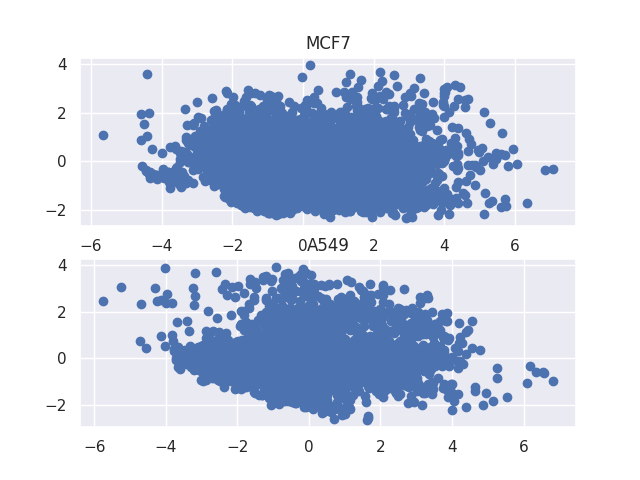
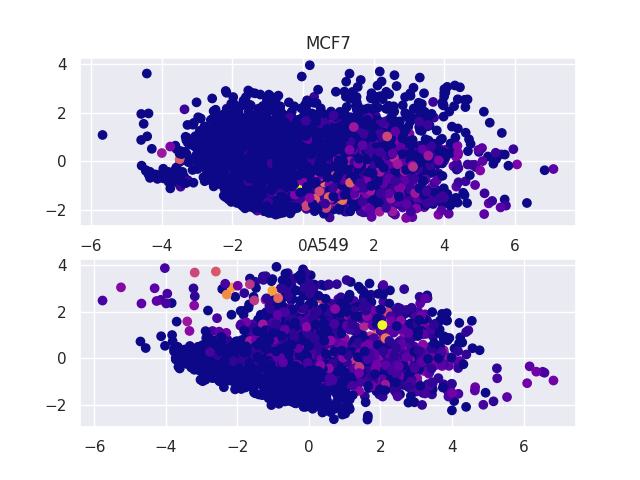
add colors to pca for number of dropouts. add script for creating rank files. add method for getting a block of data

diff --git a/processing/most_common_manager.py b/processing/most_common_manager.py
@@ -6,26 +6,6 @@ import pandas as pd
 import os
 import ipdb
 
-PERTS_PER_CELLTYPE_FILE = 'processing/helper_data/perts_per_celltype.csv'
-CELLTYPES_PER_PERT_FILE = 'processing/helper_data/celltypes_per_pert.csv'
-
-
-def save_most_common_lists():
-    print(f'[save_most_common_list] loading original LINCS2 data')
-    data_df = load_cmap()
-
-    print(f'[save_most_common_list] sorting most common celltypes/perturbations')
-    inst_info = load_inst_info()
-    inst_info = inst_info.filter(set(data_df.columns), axis=0)
-    inst_info = inst_info[inst_info['pert_type'] == 'trt_cp']
-    perts_per_celltype = inst_info.groupby('cell_id')[PERT_ID_FIELD].nunique().sort_values(ascending=False)
-    celltypes_per_pert = inst_info.groupby(PERT_ID_FIELD)['cell_id'].nunique().sort_values(ascending=False)
-
-    print(f'[save_most_common_list] saving sorted lists into files')
-    os.makedirs('processing/helper_data', exist_ok=True)
-    perts_per_celltype.to_csv(PERTS_PER_CELLTYPE_FILE)
-    celltypes_per_pert.to_csv(CELLTYPES_PER_PERT_FILE)
-
 
 class MostCommonManager:
     def __init__(self, num_celltypes, num_perts):
@@ -34,8 +14,6 @@ class MostCommonManager:
         """
         self.nc = num_celltypes
         self.np = num_perts
-        if not os.path.exists(PERTS_PER_CELLTYPE_FILE):
-            save_most_common_lists()
 
     def get_most_common_gctx(self, overwrite=False):
         filename = os.path.join('processing', 'helper_data', 'most_common', f'{self.nc}celltypes_{self.np}perts.gctx')

diff --git a/visuals/check_pca.py b/visuals/check_pca.py
@@ -1,11 +1,13 @@
 from cmapPy.pandasGEXpress.parse import parse
 import os
-from filenames import _format_cmap
+from filenames import _format_cmap, load_num_dropouts
 from sklearn.decomposition import PCA
 import matplotlib.pyplot as plt
 import seaborn as sns
 import numpy as np
 from utils import pandas_minmax
+import ipdb
+cm = plt.get_cmap('plasma')
 sns.set()
 
 cell_ids = ['MCF7', 'A549']
@@ -15,6 +17,7 @@ def main(name, cmap_file):
     os.makedirs('visuals/figures/pcas/', exist_ok=True)
     data = parse(cmap_file).data_df
     data = _format_cmap(data)
+    num_dropouts = load_num_dropouts()
 
     pert_id = 'DMSO'
     fig, axes = plt.subplots(len(cell_ids), 1)
@@ -22,11 +25,12 @@ def main(name, cmap_file):
         cell_data = data.query('cell_id == @cell_id and pert_id == @pert_id')
         cell_data = np.log2(cell_data+1)
         cell_data = pandas_minmax(cell_data, axis=1)
+        num_dropouts_cell = num_dropouts.loc[cell_data.index.get_level_values('inst_id')]
         print(cell_data.max(axis=1))
         pca = PCA(n_components=2)
         pca_data = pca.fit_transform(cell_data)
         print(pca_data.shape)
-        ax.scatter(pca_data[:, 0], pca_data[:, 1])
+        ax.scatter(pca_data[:, 0], pca_data[:, 1], c=num_dropouts_cell.values, cmap=cm)
         ax.set_title(cell_id)
     plt.savefig(f'visuals/figures/pcas/{name}.png')
 

diff --git a/filenames.py b/filenames.py
@@ -24,6 +24,10 @@ GENE_INFO_FILE = os.path.join(RAW_DATA_FOLDER, 'GSE92742_Broad_LINCS_gene_info.t
 INST_INFO_FILE = os.path.join(RAW_DATA_FOLDER, 'GSE92742_Broad_LINCS_inst_info.txt')
 INST_INFO_EPSILON_FILE = os.path.join(RAW_DATA_FOLDER, 'GSE92742_Broad_LINCS_inst_info_epsilon.txt')
 
+NUM_DROPOUTS_FILE = os.path.join(PROCESSED_DATA_FOLDER, 'epsilon_num_dropouts.pkl')
+CELL_RANK_FILE = os.path.join(PROCESSED_DATA_FOLDER, 'cell_ranks.csv')
+PERT_RANK_FILE = os.path.join(PROCESSED_DATA_FOLDER, 'pert_ranks.csv')
+
 PERT_ID_FIELD = 'pert_id'
 PERT_OTHER_FIELD = 'pert_iname'
 
@@ -119,3 +123,15 @@ def save_gctx(df, file):
     df.reset_index(drop_levels, drop=True, inplace=True)
     gctoo = GCToo(df.T)
     write(gctoo, file)
+
+
+def load_num_dropouts():
+    return pd.read_pickle(NUM_DROPOUTS_FILE)
+
+
+def load_pert_ranks():
+    return pd.read_csv(PERT_RANK_FILE, index_col=0)
+
+
+def load_cell_ranks():
+    return pd.read_csv(CELL_RANK_FILE, index_col=0)

diff --git a/evaluation/get_data_block.py b/evaluation/get_data_block.py
@@ -1,0 +1,20 @@
+from filenames import load_cell_ranks, load_pert_ranks
+import pandas as pd
+import ipdb
+
+
+def get_data_block(cell_start: int, cell_stop: int, pert_start: int, pert_stop: int, name='level2_filtered'):
+    print("[get_data_block] loading averages")
+    averages = pd.read_pickle(f'data/processed/averages/{name}.pkl')
+    pert_ranks = load_pert_ranks()
+    cell_ranks = load_cell_ranks()
+    cells = set(cell_ranks[cell_start:cell_stop].index)
+    perts = set(pert_ranks[pert_start:pert_stop].index)
+    block = averages.query("cell_id in @cells and pert_id in @perts")
+    return block
+
+
+if __name__ == '__main__':
+    data_block = get_data_block(0, 10, 0, 20)
+
+

diff --git a/processing/create_rank_files.py b/processing/create_rank_files.py
@@ -1,0 +1,13 @@
+from filenames import load_inst_info_epsilon, PERT_ID_FIELD, CELL_RANK_FILE, PERT_RANK_FILE
+import os
+
+print(f'[create_rank_files] sorting most common celltypes/perturbations')
+inst_info = load_inst_info_epsilon()
+inst_info = inst_info[inst_info['pert_type'] == 'trt_cp']
+pert_ranks = inst_info.groupby('cell_id')[PERT_ID_FIELD].nunique().sort_values(ascending=False)
+cell_ranks = inst_info.groupby(PERT_ID_FIELD)['cell_id'].nunique().sort_values(ascending=False)
+
+print(f'[create_rank_files] saving sorted lists into files')
+os.makedirs('processing/helper_data', exist_ok=True)
+pert_ranks.to_csv(CELL_RANK_FILE)
+cell_ranks.to_csv(PERT_RANK_FILE)

diff --git a/processing/impute_dropout.py b/processing/impute_dropout.py
@@ -9,6 +9,7 @@ average of *all* genes in the same perturbation/cell type pair.
 
 from filenames import LINCS2_EPSILON_IMPUTED_FILE, load_cmap_original, LINCS2_EPSILON_825_FILE, save_gctx
 from filenames import PERT_ID_FIELD, PERT_OTHER_FIELD
+from filenames import NUM_DROPOUTS_FILE
 import numpy as np
 from tqdm import tqdm
 tqdm.pandas()
@@ -17,6 +18,8 @@ print("Loading data")
 original_data = load_cmap_original()
 print("Replacing 1 with NaN")
 data = original_data.replace(1, np.nan)
+num_dropouts = data.isna().sum(axis=1)
+num_dropouts.to_pickle(NUM_DROPOUTS_FILE)
 
 print("Filtering out genes with any NaNs")
 retained_genes = ~data.isna().any(axis=0)
